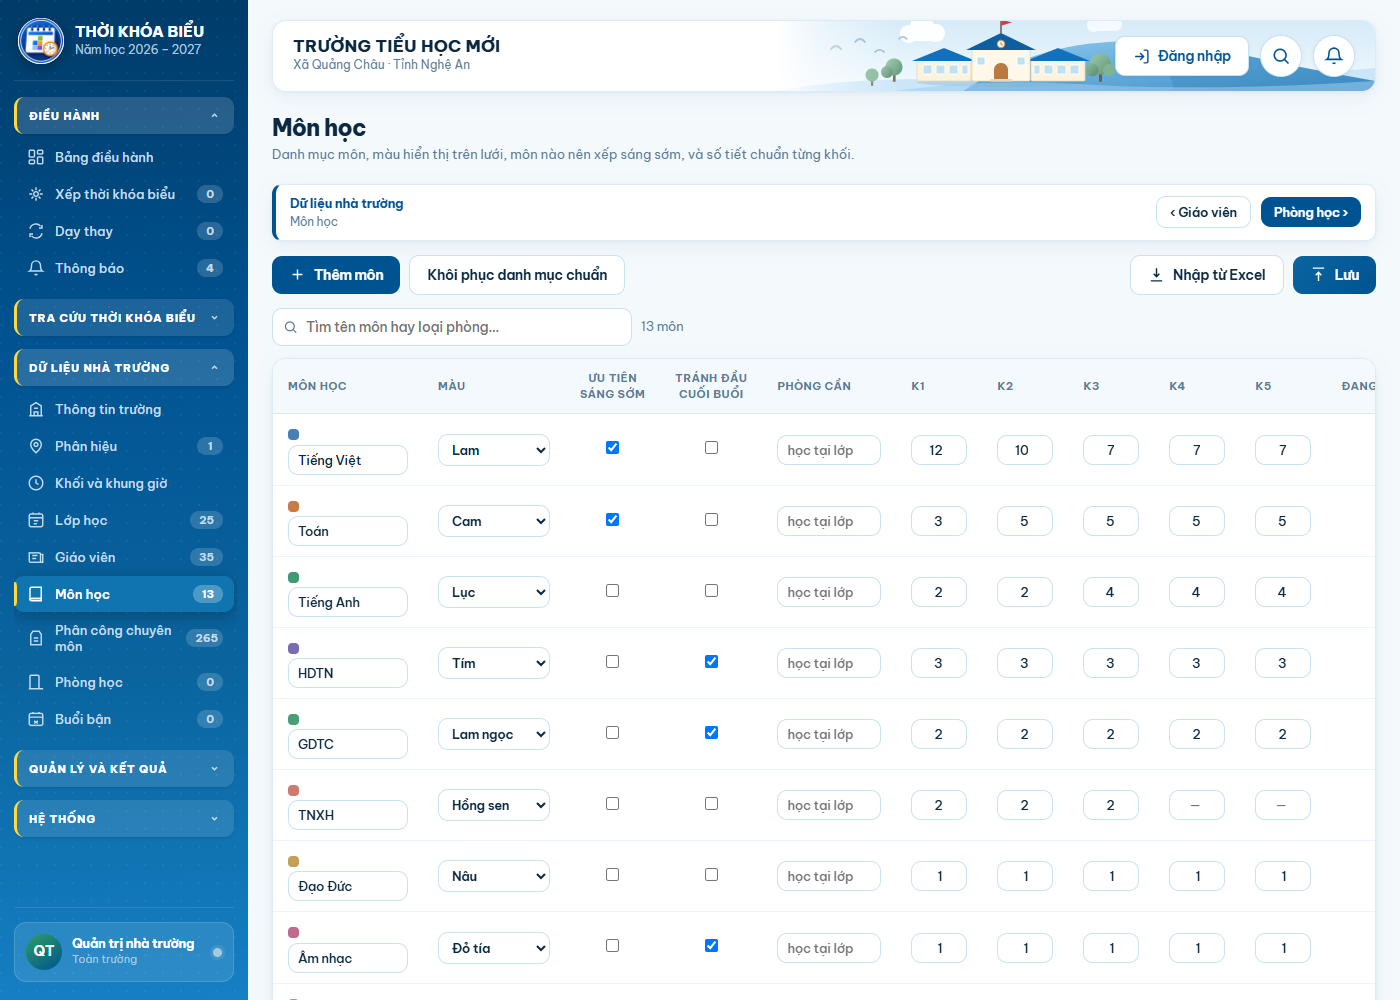
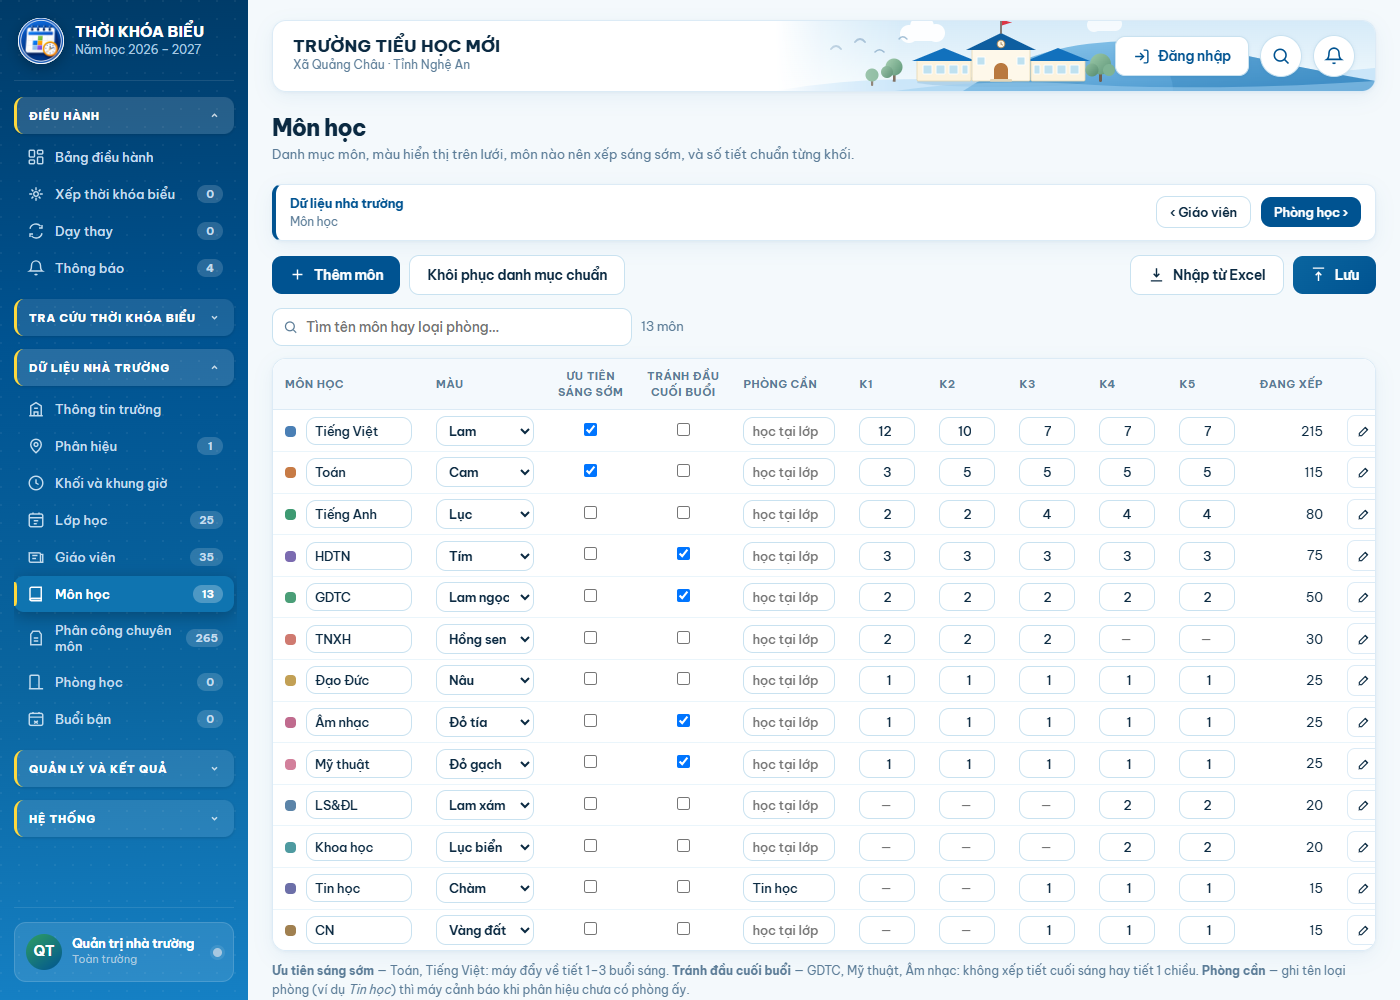
Bang Mon hoc: cum Sua/Xoa thay dau x, va hien du 13 mon
Chu du an: "nut dau x (mau do) can thay bang nut sua/xoa. Va ca trang
nay van bi lap cac mon con lai, cho hang sat len, cho du 13 + mon".

- Dau x do tran → cum Sua / Xoa, dung khuon bang Giao vien 28/8: nut Xoa
  KHONG to do san, chi do khi re chuot.
- hopSuaMon() mo hop day du, dung chung oKhaiMon()/docKhaiMon() voi hop
  Them. Hop Them cu thieu dung hai o "Uu tien sang som" va "Tranh dau
  cuoi buoi" ma bang van co — lai dung chuyen da xay ra hom 28/8.
- Doi TEN mon thi doi theo o phanCong va S.tkb: hai noi ay tham chieu
  mon bang chinh chuoi ten, bo buoc nay la dong phan cong thanh mon la.

⚠ Khung cuon max-height:66vh da BO. No chi chua 10 hang ma danh muc
chuan da 13 mon — MOI truong deu mat bon mon cuoi.

⚠ Thu that su lam hang cao gap doi la white-space chu khong phai
padding: cot dau hep lai thi o nhap ten roi xuong DUOI cham mau, hang
thanh 59px. Them nowrap + lop .dl.gon dua hang ve 41px.

npm run soi 461/461 (9 phep thu moi) · test 454/454 · soi-nhap 60/60

Claude-Session: https://claude.ai/code/session_01Feof1wM7UgUKRgtGQBPP1z

diff --git a/src/index.html b/src/index.html
@@ -607,6 +607,12 @@ table.dl{border-collapse:collapse;width:100%;font-size:13px}
 table.dl th{background:#F4F9FD;text-align:left;padding:11px 15px;font-size:10.5px;font-weight:700;
   letter-spacing:.08em;text-transform:uppercase;color:var(--chu-mo);border-bottom:1px solid var(--ke);position:sticky;top:0;z-index:2;white-space:nowrap}
 table.dl td{padding:10px 15px;border-bottom:1px solid #EAF5FB}
+/* Bảng nhiều dòng mà mỗi dòng chỉ chứa ô nhập một dòng — Môn học 13+ môn —
+   thì 10px trên dưới đẩy bốn môn cuối ra khỏi màn hình mà chẳng thêm gì cho
+   dễ đọc. Nới tay ở bảng ít dòng, siết ở bảng dài. */
+table.dl.gon td{padding:5px 12px}
+table.dl.gon th{padding:9px 12px}
+table.dl.gon td .ip{padding:5px 8px}
 table.dl tbody tr:last-child td{border-bottom:none}
 table.dl tbody tr:hover{background:#F7FBFE}
 .giua{text-align:center}.phai{text-align:right}
@@ -11323,28 +11329,41 @@ function mMonHoc(){
       <div class="cb-g">${esc(laMonNgoai.join(' · '))} — vẫn xếp được, nhưng chưa có màu riêng và chưa
         khai được số tiết chuẩn. Bấm <b>Thêm môn</b> để bổ sung.</div></div></div>`:''}
   ${oLoc('bMon',ds.length,'môn','Tìm tên môn hay loại phòng…')}
-  <div class="bang" style="max-height:66vh"><table class="dl" id="bMon"><thead><tr>
+  ${''/* ⚠ KHÔNG khoá chiều cao. Chủ dự án: "cả trang này vẫn bị lấp các môn
+        còn lại, nếu có thể em cho hàng sát lên, cho đủ 13+ môn". Khung cuộn
+        66vh chỉ chứa 10 hàng nên bốn môn cuối luôn khuất, mà danh mục chuẩn
+        đã 13 môn — nghĩa là ai cũng gặp. Bảng cao tự nhiên, trang cuộn như
+        mọi trang khác; `.bang` vẫn giữ overflow cho cuộn NGANG 13 cột. */}
+  <div class="bang"><table class="dl gon" id="bMon"><thead><tr>
     <th>Môn học</th><th>Màu</th><th style="text-align:center">Ưu tiên<br>sáng sớm</th>
     <th style="text-align:center">Tránh đầu<br>cuối buổi</th><th>Phòng cần</th>
     ${[1,2,3,4,5].map(k=>`<th class="phai">K${k}</th>`).join('')}
-    <th class="phai">Đang xếp</th>${sua?'<th></th>':''}</tr></thead><tbody>
+    <th class="phai">Đang xếp</th>${sua?'<th style="text-align:right">Sửa</th>':''}</tr></thead><tbody>
   ${ds.map((m,i)=>`<tr data-loctu="${tuLoc(m.ten,m.phong)}">
-    <td><span class="${esc(m.mau)}" style="display:inline-block;width:11px;height:11px;border-radius:4px;
-        background:var(--mc);margin-right:8px;vertical-align:-1px"></span>
-      ${sua?`<input class="ip" data-monten="${i}" value="${esc(m.ten)}" style="width:120px">`:`<b>${esc(m.ten)}</b>`}</td>
-    <td>${sua?`<select class="ip" data-monmau="${i}" style="width:112px">
+    ${''/* ⚠ `white-space:nowrap`. Thiếu nó thì cột này hẹp lại là ô nhập rơi
+          xuống DƯỚI chấm màu, hàng cao gấp đôi — đúng thứ đẩy bốn môn cuối ra
+          khỏi màn hình. Bảng 13 cột thì cột nào cũng bị ép, nên phải nói rõ. */}
+    <td style="white-space:nowrap"><span class="${esc(m.mau)}" style="display:inline-block;width:11px;height:11px;border-radius:4px;
+        background:var(--mc);margin-right:7px;vertical-align:-1px"></span>
+      ${sua?`<input class="ip" data-monten="${i}" value="${esc(m.ten)}" style="width:106px">`:`<b>${esc(m.ten)}</b>`}</td>
+    <td>${sua?`<select class="ip" data-monmau="${i}" style="width:98px">
         ${MAU_MON.map(x=>`<option value="${x.ma}" ${m.mau===x.ma?'selected':''}>${esc(x.ten)}</option>`).join('')}</select>`
       :esc(MAU_MON.find(x=>x.ma===m.mau)?.ten||'')}</td>
     <td style="text-align:center"><input type="checkbox" data-monnang="${i}" ${m.nang?'checked':''} ${sua?'':'disabled'}></td>
     <td style="text-align:center"><input type="checkbox" data-monnhe="${i}" ${m.nhe?'checked':''} ${sua?'':'disabled'}></td>
-    <td>${sua?`<input class="ip" data-monphong="${i}" value="${esc(m.phong||'')}" placeholder="học tại lớp" style="width:104px">`
+    <td>${sua?`<input class="ip" data-monphong="${i}" value="${esc(m.phong||'')}" placeholder="học tại lớp" style="width:92px">`
       :esc(m.phong||'—')}</td>
     ${[1,2,3,4,5].map(k=>`<td class="phai">${sua
       ?`<input class="ip" type="number" min="0" max="20" data-monchuan="${i}|${k}"
           value="${m.chuan?.[k]||''}" placeholder="—" style="width:56px;text-align:right">`
       :(m.chuan?.[k]||'—')}</td>`).join('')}
     <td class="phai">${dungTrongPC[m.ten]||0}</td>
-    ${sua?`<td class="phai"><button class="x-hang" data-xoamon="${i}" title="Xoá môn">&times;</button></td>`:''}
+    ${sua?`<td><div class="hang-nut">
+      <button data-suamon="${i}" title="Sửa môn ${esc(m.ten)}">
+        <svg viewBox="0 0 24 24"><path d="M4 20h4l10-10-4-4L4 16z"/><path d="M14 6l4 4"/></svg>Sửa</button>
+      <button class="n-xoa" data-xoamon="${i}" title="Xoá môn ${esc(m.ten)}">
+        <svg viewBox="0 0 24 24"><path d="M4 7h16M9 7V5h6v2M6 7l1 13h10l1-13"/></svg>Xoá</button>
+    </div></td>`:''}
   </tr>`).join('')}
   </tbody></table></div>
   ${locRong('bMon')}
@@ -12155,6 +12174,7 @@ function noiSuKien(){
     const n=+e.target.value;
     if(Number.isFinite(n) && n>0) m.chuan[k]=Math.min(20,n); else delete m.chuan[k];
     ve(); });
+  $$('[data-suamon]').forEach(b=>b.onclick=()=>hopSuaMon(+b.dataset.suamon));
   $$('[data-xoamon]').forEach(x=>x.onclick=()=>{
     const m=S.monHoc[+x.dataset.xoamon]; if(!m) return;
     const dung=S.phanCong.filter(p=>p.mon===m.ten).length;
@@ -12869,30 +12889,73 @@ function hopXoaGV(id){
   }}]);
 }
 
-function hopThemMon(){
-  hop('Thêm môn học',
-  `<div class="on-l"><label>Tên môn</label>
-     <input class="ip" id="tmTen" placeholder="Ví dụ: Tiếng dân tộc" style="width:100%"></div>
+/* Ô khai của MỘT môn — dùng chung cho cả Thêm lẫn Sửa. Viết hai bản thì sớm
+   muộn một bên thiếu ô, đúng chuyện đã xảy ra với hộp Thêm giáo viên hôm
+   28/8: bảng có bảy cột mà hộp chỉ hỏi ba. Hộp cũ ở đây cũng thiếu đúng hai
+   ô "Ưu tiên sáng sớm" và "Tránh đầu cuối buổi". */
+function oKhaiMon(m){
+  const g=(x,d='')=>esc(m?.[x] ?? d);
+  return `<div class="on-l"><label>Tên môn</label>
+     <input class="ip" id="tmTen" value="${g('ten')}" placeholder="Ví dụ: Tiếng dân tộc" style="width:100%"></div>
    <div class="on-l"><label>Màu trên lưới</label>
      <select class="ip" id="tmMau" style="width:100%">
-       ${MAU_MON.map(x=>`<option value="${x.ma}">${esc(x.ten)}</option>`).join('')}</select></div>
+       ${MAU_MON.map(x=>`<option value="${x.ma}" ${m?.mau===x.ma?'selected':''}>${esc(x.ten)}</option>`).join('')}</select></div>
    <div class="on-l"><label>Phòng chức năng cần dùng</label>
-     <input class="ip" id="tmPhong" placeholder="để trống nếu học tại lớp" style="width:100%"></div>
+     <input class="ip" id="tmPhong" value="${g('phong')}" placeholder="để trống nếu học tại lớp" style="width:100%"></div>
+   <div class="on-l"><label>Cách xếp</label>
+     <label style="display:flex;gap:9px;align-items:center;cursor:pointer;font-size:13px;margin-bottom:7px">
+       <input type="checkbox" id="tmNang" ${m?.nang?'checked':''}>
+       Ưu tiên sáng sớm — máy đẩy về tiết 1–3 buổi sáng</label>
+     <label style="display:flex;gap:9px;align-items:center;cursor:pointer;font-size:13px">
+       <input type="checkbox" id="tmNhe" ${m?.nhe?'checked':''}>
+       Tránh đầu cuối buổi — không xếp tiết cuối sáng hay tiết 1 chiều</label></div>
    <div class="on-l"><label>Số tiết chuẩn mỗi tuần</label>
      <div style="display:grid;grid-template-columns:repeat(5,1fr);gap:8px">
        ${[1,2,3,4,5].map(k=>`<div style="text-align:center">
          <div style="font-size:11px;font-weight:700;color:var(--chu-mo);margin-bottom:4px">K${k}</div>
          <input class="ip" type="number" min="0" max="20" placeholder="—" data-tmc="${k}"
-           style="width:100%;text-align:center"></div>`).join('')}
-     </div><div class="gy">Khối nào không học môn này thì để trống.</div></div>`,
+           value="${m?.chuan?.[k]||''}" style="width:100%;text-align:center"></div>`).join('')}
+     </div><div class="gy">Khối nào không học môn này thì để trống — khối ấy sẽ không tích được
+       môn này trong hộp Thêm phân công.</div></div>`;
+}
+
+/* Đọc ngược ô khai. Trả null khi có lỗi và đã báo — nơi gọi chỉ việc dừng. */
+function docKhaiMon(iBoQua){
+  const ten=$('#tmTen').value.trim();
+  if(!ten){ bao('Nhập tên môn',true); return null; }
+  if(S.monHoc.some((m,i)=>i!==iBoQua && m.ten===ten)){
+    bao('Danh mục đã có môn "'+ten+'"',true); return null; }
+  const chuan={};
+  [1,2,3,4,5].forEach(k=>{ const n=+$(`[data-tmc="${k}"]`).value; if(n>0) chuan[k]=Math.min(20,n); });
+  return {ten, mau:$('#tmMau').value, nang:$('#tmNang').checked, nhe:$('#tmNhe').checked,
+          phong:$('#tmPhong').value.trim(), chuan};
+}
+
+function hopThemMon(){
+  hop('Thêm môn học', oKhaiMon(null),
   [{ten:'Huỷ',phu:1,lam:dong},{ten:'Thêm',lam:()=>{
-    const ten=$('#tmTen').value.trim(); if(!ten) return bao('Nhập tên môn',true);
-    if(S.monHoc.some(m=>m.ten===ten)) return bao('Danh mục đã có môn "'+ten+'"',true);
-    const chuan={};
-    [1,2,3,4,5].forEach(k=>{ const n=+$(`[data-tmc="${k}"]`).value; if(n>0) chuan[k]=Math.min(20,n); });
-    S.monHoc.push({ten, mau:$('#tmMau').value, nang:false, nhe:false,
-                   phong:$('#tmPhong').value.trim(), chuan});
-    dong(); bao('Đã thêm môn '+ten); ve();
+    const v=docKhaiMon(-1); if(!v) return;
+    S.monHoc.push(v);
+    dong(); bao('Đã thêm môn '+v.ten); ve();
+  }}]);
+}
+
+function hopSuaMon(i){
+  const m=S.monHoc[i]; if(!m) return;
+  hop('Sửa môn '+m.ten, oKhaiMon(m),
+  [{ten:'Huỷ',phu:1,lam:dong},{ten:'Lưu',lam:()=>{
+    const v=docKhaiMon(i); if(!v) return;
+    /* Đổi TÊN môn thì phải đổi theo ở bảng phân công và ở lưới đã xếp — hai
+       nơi ấy tham chiếu môn bằng chính chuỗi tên. Bỏ bước này là dòng phân
+       công thành môn lạ, và ô trên lưới mất màu. */
+    const tenCu=m.ten;
+    Object.assign(m, v);
+    if(tenCu!==v.ten){
+      S.phanCong.forEach(p=>{ if(p.mon===tenCu) p.mon=v.ten; });
+      Object.values(S.tkb||{}).forEach(o=>Object.values(o).forEach(t=>{
+        if(t?.mon===tenCu) t.mon=v.ten; }));
+    }
+    dong(); bao('Đã lưu môn '+v.ten); ve();
   }}]);
 }
 

diff --git a/CLAUDE.md b/CLAUDE.md
@@ -712,6 +712,31 @@ tìm ra.
 | Thêm phân công | **một lớp** · nhiều môn — dành cho chủ nhiệm |
 | Phân công nhanh | một môn · **nhiều lớp** — dành cho bộ môn |
 
+### Bảng Môn học: cụm Sửa/Xoá, và hiện đủ 13 môn *(29/8/2026)*
+
+Chủ dự án: *"nút dấu x (màu đỏ) cần thay bằng nút sửa/xoá. Và cả trang này vẫn
+bị lấp các môn còn lại, cho hàng sát lên, cho đủ 13 + môn"*.
+
+- **Dấu `×` đỏ trần → cụm Sửa / Xoá**, đúng khuôn bảng Giáo viên hôm 28/8:
+  nút Xoá **không tô đỏ sẵn**, chỉ đỏ khi rê chuột.
+- **`hopSuaMon()` mở hộp đầy đủ**, dùng chung `oKhaiMon()` · `docKhaiMon()`
+  với hộp Thêm. Hộp Thêm cũ thiếu đúng hai ô *Ưu tiên sáng sớm* và *Tránh đầu
+  cuối buổi* mà bảng vẫn có — lại đúng chuyện đã xảy ra với hộp Thêm giáo viên.
+- ⚠ **Đổi TÊN môn thì phải đổi theo ở `phanCong` và `S.tkb`** — hai nơi ấy
+  tham chiếu môn bằng chính chuỗi tên. Bỏ bước này là dòng phân công thành môn
+  lạ và ô trên lưới mất màu. Có phép thử canh.
+
+⚠ **Khung cuộn `max-height:66vh` đã BỎ.** Nó chỉ chứa 10 hàng, mà danh mục
+chuẩn đã 13 môn — nghĩa là **mọi** trường đều mất bốn môn cuối, không riêng ai.
+Bảng nay cao tự nhiên, trang cuộn như mọi trang; `.bang` vẫn giữ `overflow`
+cho cuộn NGANG 13 cột.
+
+⚠ **Thứ thật sự làm hàng cao gấp đôi là `white-space` chứ không phải padding.**
+Cột đầu hẹp lại thì ô nhập tên rơi xuống **dưới** chấm màu, hàng thành 59px.
+Thêm `nowrap` cho ô ấy và lớp `.dl.gon` (padding 5px) đưa hàng về 41px — 13 môn
+vừa một màn hình. Bảng 13 cột thì cột nào cũng bị ép, nên chỗ nào không được
+xuống dòng phải nói rõ.
+
 ⚠ **Bảng Giáo viên trần ở MƯỜI cột.** Thêm cụm Sửa/Xoá làm nó tràn khỏi màn
 hình 1500px, người dùng phải cuộn ngang mới bấm được. Hai cột bị gộp vào chỗ
 chúng vốn thuộc về — phân hiệu xuống dưới cột *Dạy* (nó chính là nơi những
